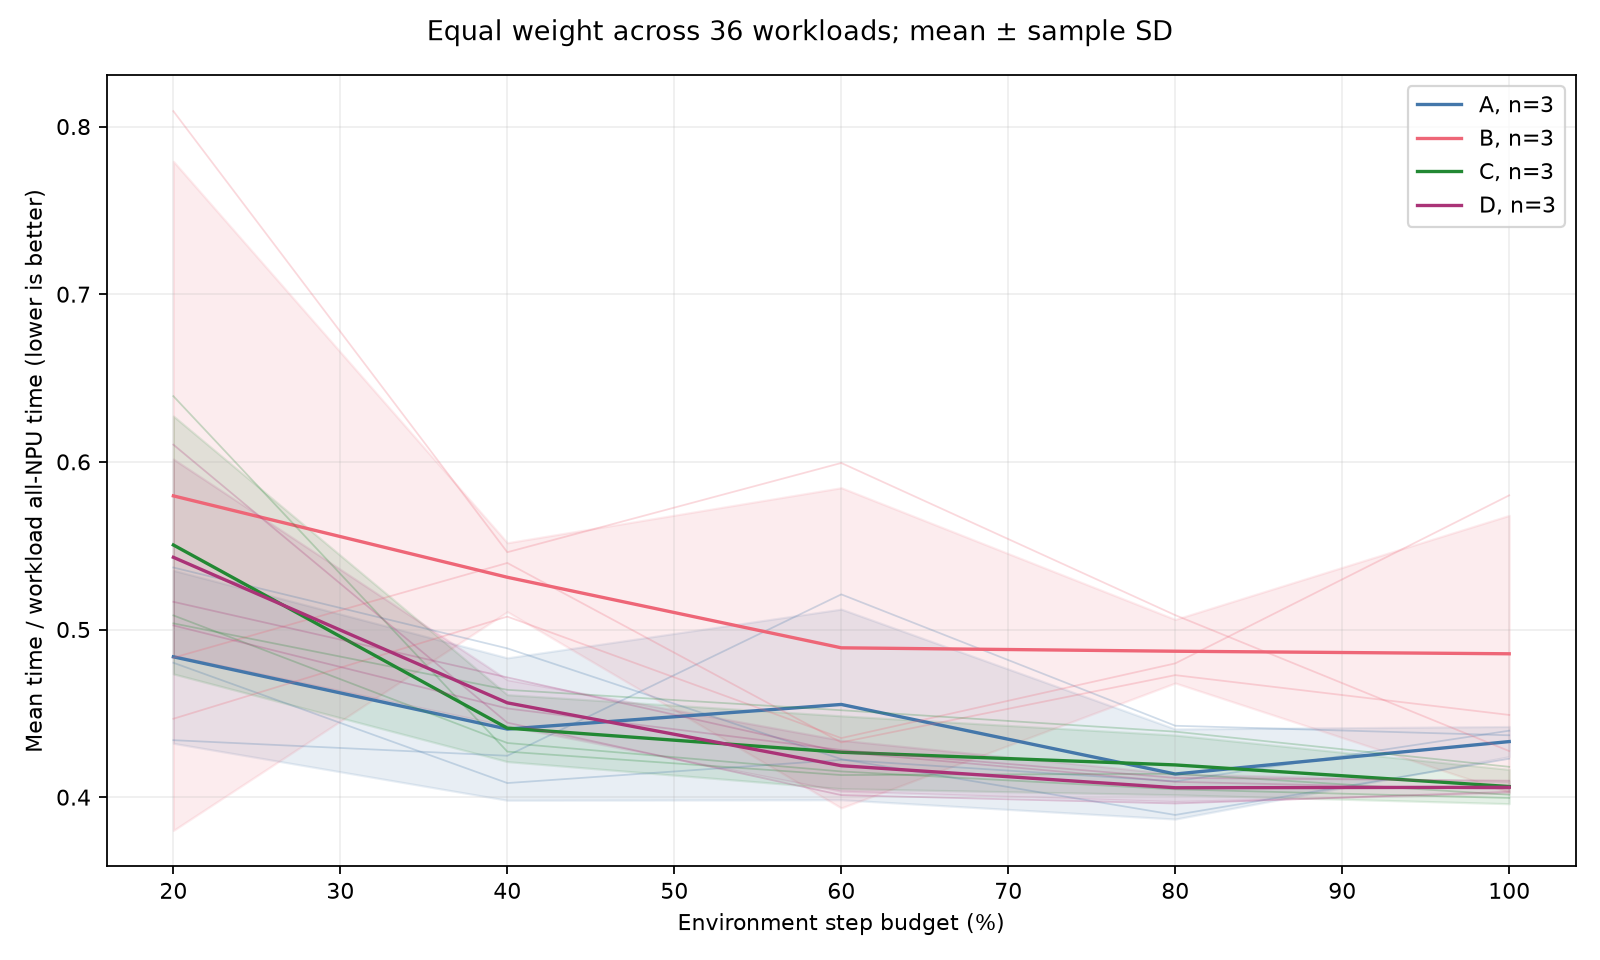
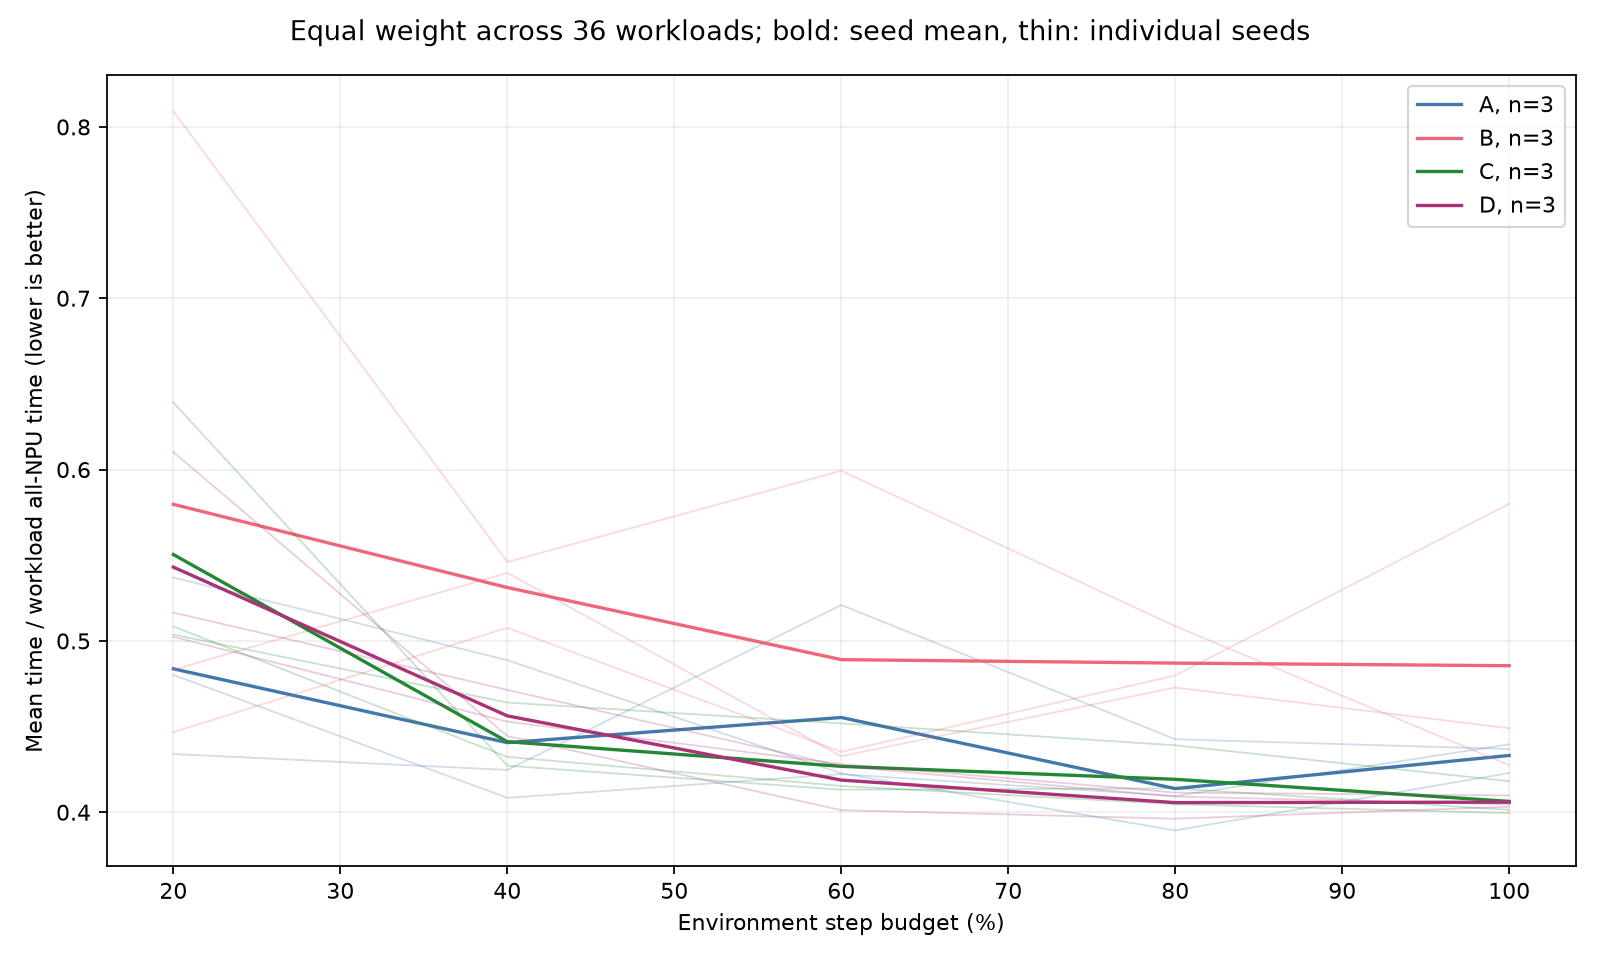
Report normalized Bifocal latencies and clarify PPO training units

diff --git a/SB3_PPO/dops_sb3/mixed_results.py b/SB3_PPO/dops_sb3/mixed_results.py
@@ -163,9 +163,6 @@ def compare_mixed_runs(root, runs):
             values = np.stack([y[np.searchsorted(x, common)] for x, y, _ in curves])
             mean = values.mean(axis=0)
             ax.plot(common, mean, color=color, label=f"{variant}, n={len(group)}")
-            if len(group) > 1:
-                sd = values.std(axis=0, ddof=1)
-                ax.fill_between(common, mean - sd, mean + sd, color=color, alpha=0.12)
             for workload_ax, key in zip(workload_axes.flat, keys):
                 times = np.stack([[h[i]["workloads"][key]["latency_s"] * 1000
                                    for i in np.searchsorted(x, common)] for x, _, h in curves])
@@ -194,7 +191,7 @@ def compare_mixed_runs(root, runs):
     ax.legend()
     ax.grid(alpha=0.2)
     note = "SMOKE: integration only. " if any(s["smoke"] for _, s in runs) else ""
-    fig.suptitle(note + f"Equal weight across {len(keys)} workloads; mean ± sample SD")
+    fig.suptitle(note + f"Equal weight across {len(keys)} workloads; bold: seed mean, thin: individual seeds")
     fig.tight_layout()
     fig.savefig(figures / "comparison_reward_latency.png", dpi=160)
     plt.close(fig)
